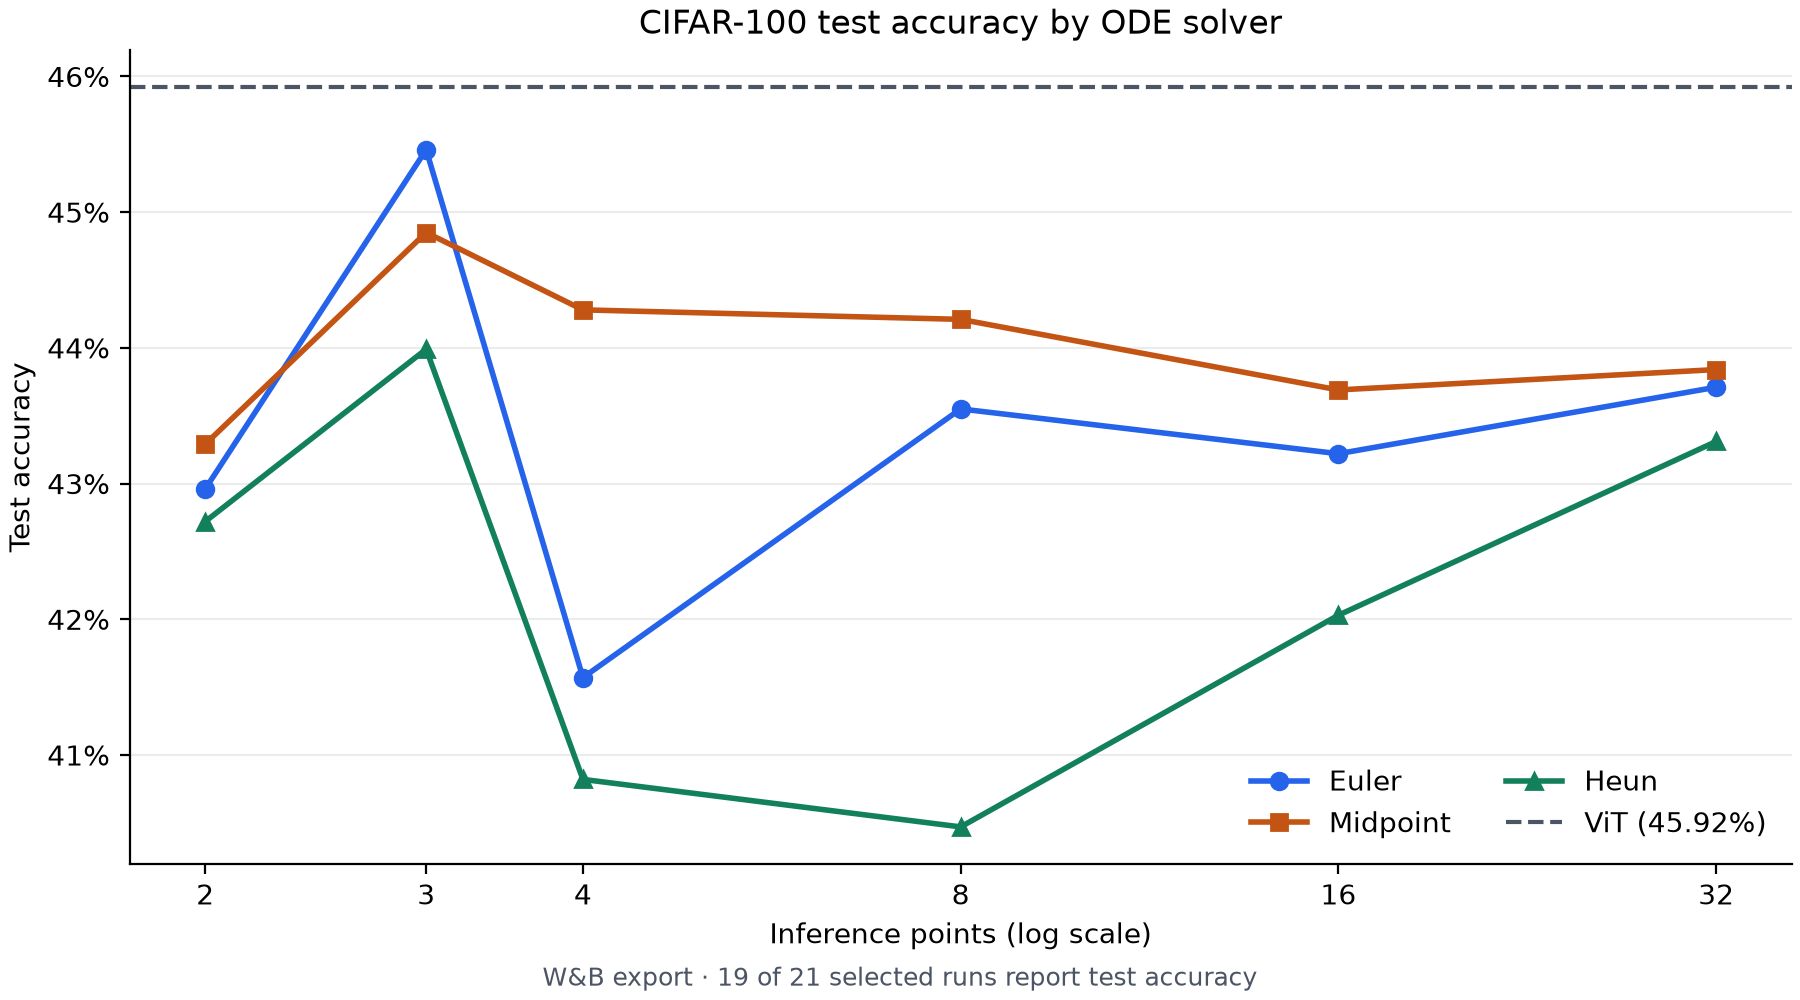
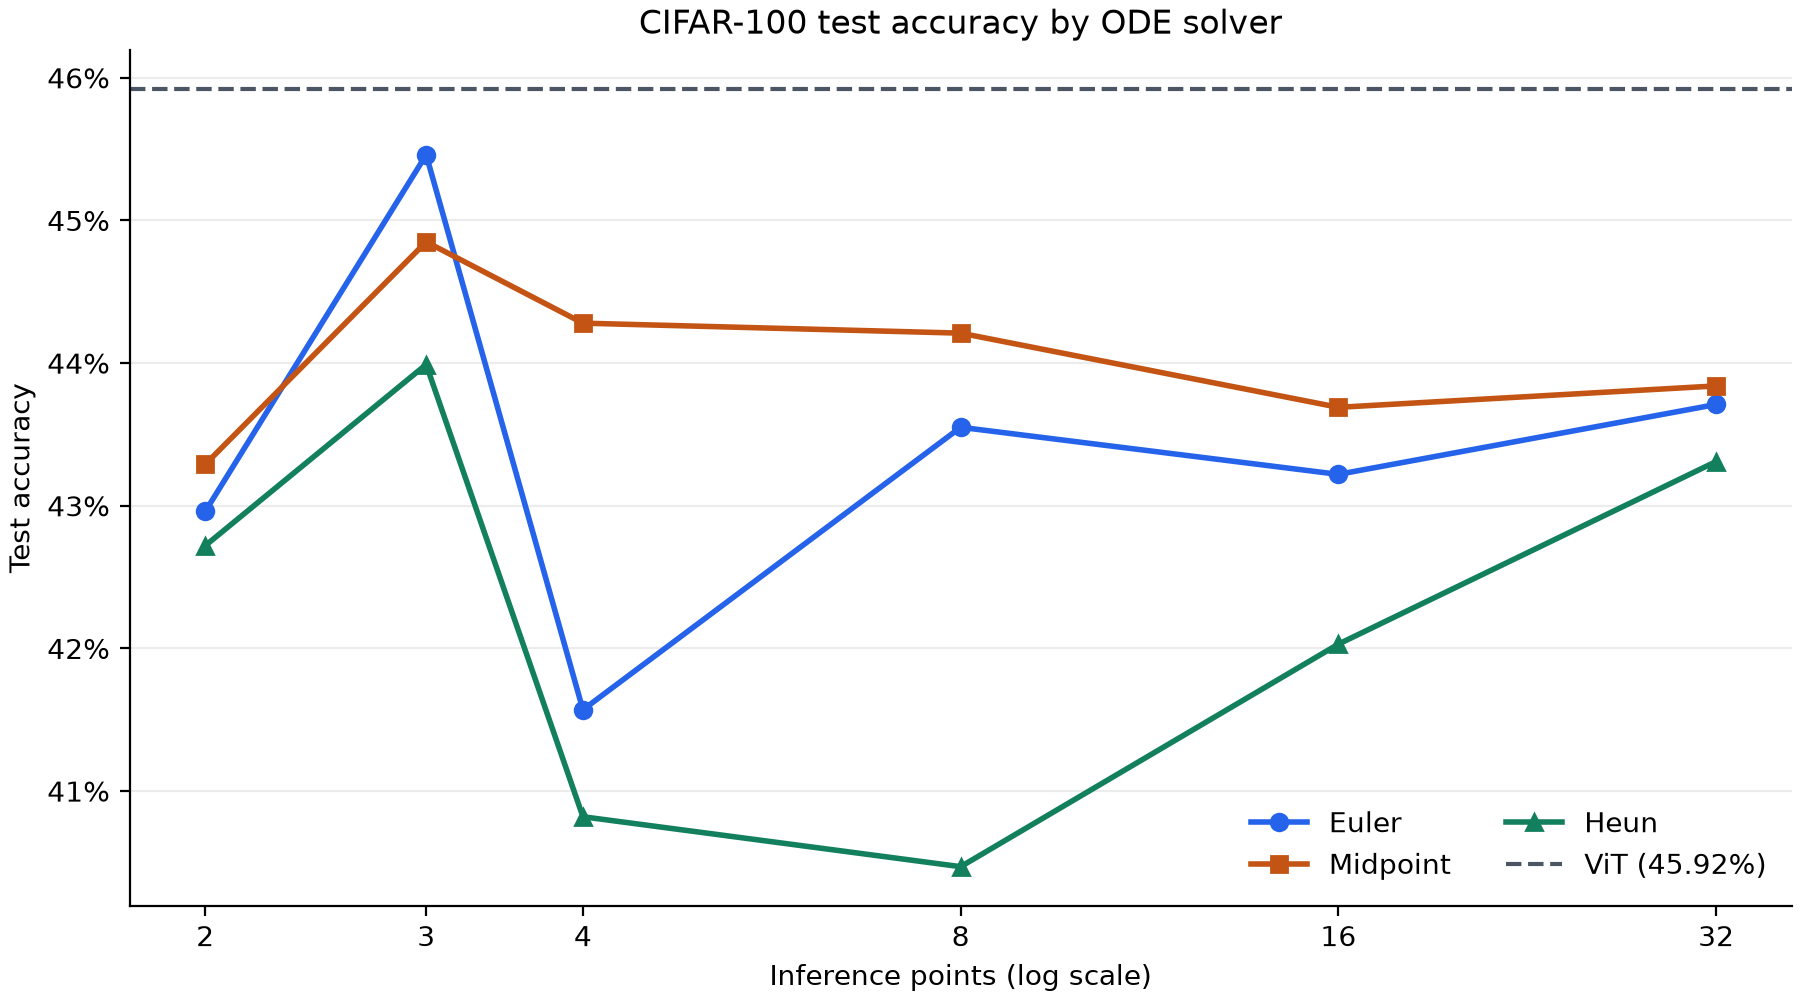
Remove run-count footer from accuracy chart

diff --git a/plot_wandb_accuracy.py b/plot_wandb_accuracy.py
@@ -54,10 +54,6 @@ def main():
     ax.grid(axis="y", alpha=0.23)
     ax.spines[["top", "right"]].set_visible(False)
     ax.legend(loc="lower right", ncols=2, frameon=False)
-    fig.supxlabel(
-        f"W&B export · {len(measured)} of {len(latest)} selected runs report test accuracy",
-        fontsize=9, color="#4b5563",
-    )
     fig.savefig(args.output, dpi=200)
     plt.close(fig)
 
